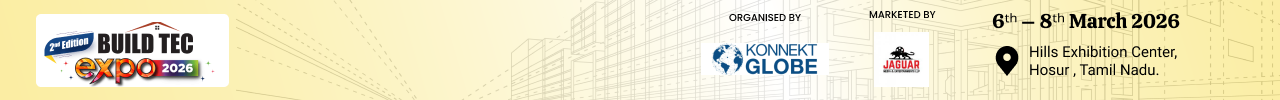
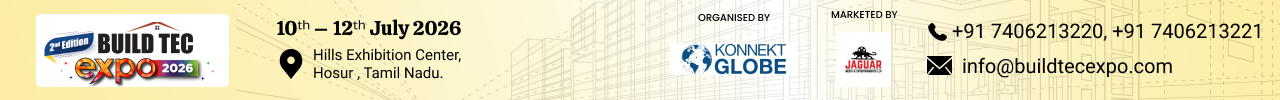
add

Changed region(s): [[0.5, 0.09, 1.0, 0.87], [0.2188, 0.48, 0.375, 0.78], [0.2188, 0.21, 0.375, 0.39]]

diff --git a/index.html b/index.html
@@ -766,7 +766,7 @@
 
  <script>
     // Set target date
-    const targetDate = new Date("March 06, 2026 09:00:00").getTime();
+    const targetDate = new Date("july 10, 2026 09:00:00").getTime();
 
     const timer = setInterval(function() {
       const now = new Date().getTime();
@@ -933,7 +933,7 @@
   </script>
    <script>
     // 🎯 Event Date (Target)
-    const eventDate = new Date("March 8, 2026 00:00:00").getTime();
+    const eventDate = new Date("july 10, 2026 00:00:00").getTime();
     const countdownDisplay = document.getElementById("countdownDisplay");
 
     // ⏳ Countdown Function

diff --git a/style.css b/style.css
@@ -31,7 +31,7 @@ html, body {
 
 
 .navbar-custom {
-      background: #f4d31a;
+      background: #ffd700;
       padding: 15px;
     }
     .navbar-logo {
